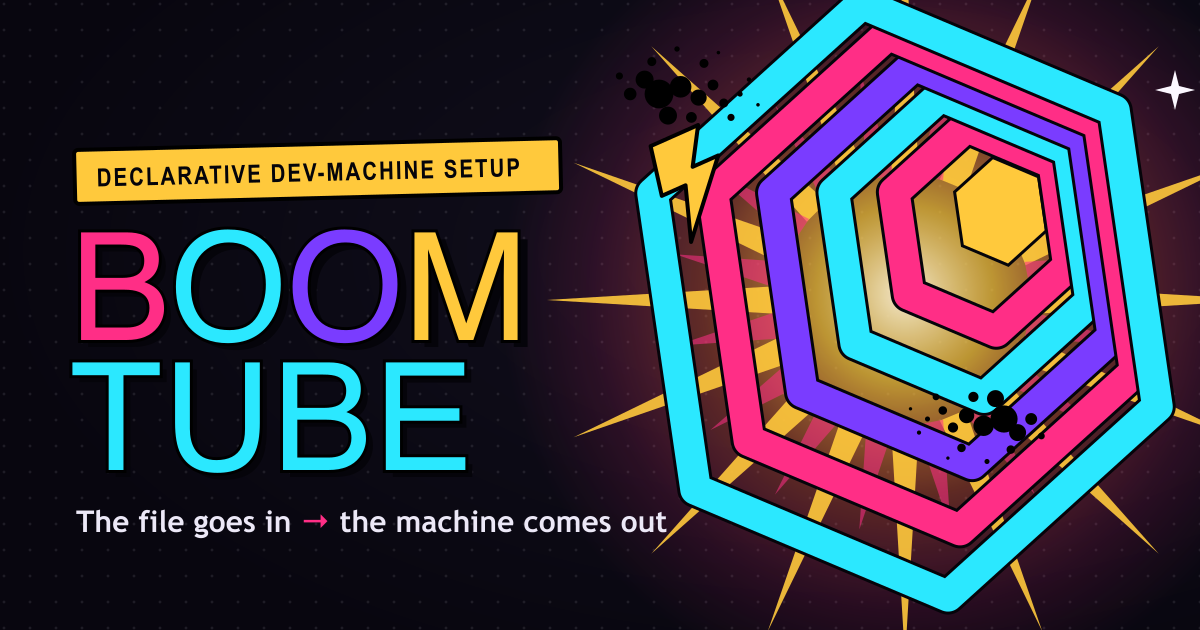
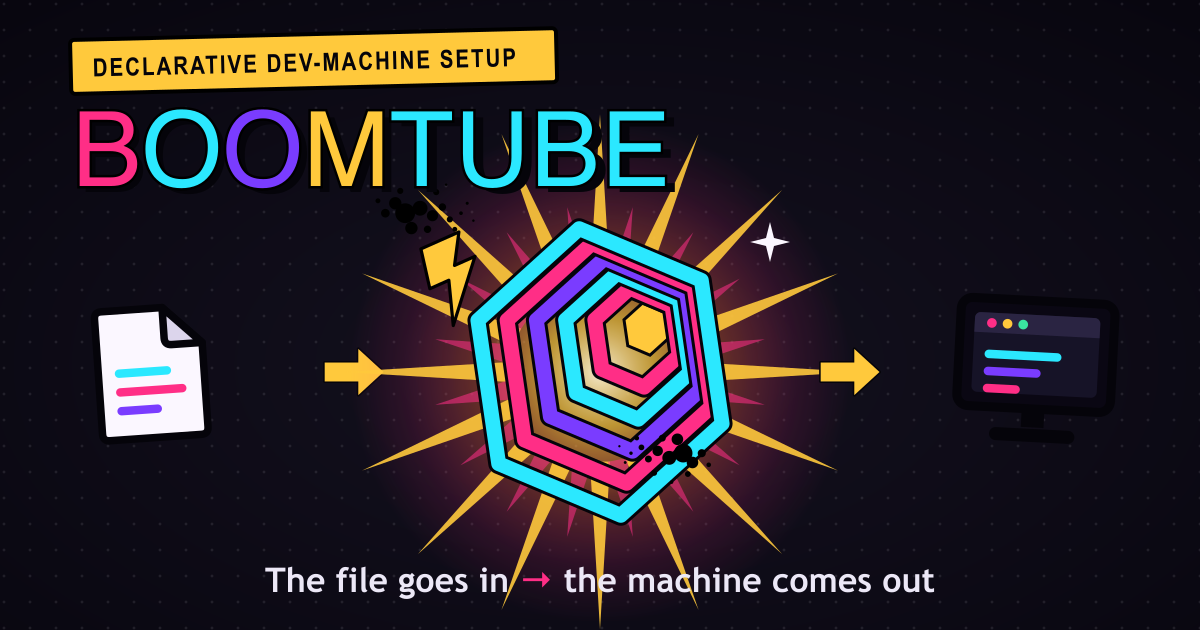
feat(site): redesign the social card as the file→portal→machine equation
The OG card was a static "wordmark beside a portal" from the 0.13 redesign;
it read as the old brand. Recompose it into the tagline drawn as a picture:
a boomfile.toml page feeds the real hex-tunnel BOOM portal (dead-center) and
the machine terminal emerges the far side — the same file→portal→machine story
the landing hero now tells, using the same glyphs so the card and site stay in
lockstep. Kicker/wordmark/tagline all carry the current "declarative dev-machine
setup" branding (the "machine reconciler" language was already retired in #67).

Update og:image:alt / twitter:image:alt to describe the new composition.

Claude-Session: https://claude.ai/code/session_01T9QBRgURziaXJq2mFFyxRk

diff --git a/site/og.build.ts b/site/og.build.ts
@@ -94,24 +94,59 @@ function burst(S: number): string {
   return tri.join("\n    ");
 }
 
+// ---- the boomfile page + the machine terminal, verbatim from index.html's
+// hero equation glyphs (the file→portal→machine story, its source of truth). A
+// 64×64 glyph, centered at (cx,cy) and scaled to `s`×, tilted by `rot`°. ----
+function fileGlyph(cx: number, cy: number, s: number, rot: number): string {
+  return `<g transform="translate(${f(cx)} ${f(cy)}) rotate(${rot}) scale(${s}) translate(-32 -32)">
+      <path d="M13 5 H39 L55 21 V57 Q55 60 52 60 H13 Q10 60 10 57 V8 Q10 5 13 5 Z" fill="${C.white}" stroke="${C.ink}" stroke-width="3.2" stroke-linejoin="round"/>
+      <path d="M39 5 V18 Q39 21 42 21 H55 Z" fill="#DCD5EC" stroke="${C.ink}" stroke-width="3.2" stroke-linejoin="round"/>
+      <rect x="17" y="30" width="24" height="3.6" rx="1.8" fill="${C.cyan}"/>
+      <rect x="17" y="38" width="30" height="3.6" rx="1.8" fill="${C.magenta}"/>
+      <rect x="17" y="46" width="19" height="3.6" rx="1.8" fill="${C.violet}"/>
+    </g>`;
+}
+function machineGlyph(cx: number, cy: number, s: number, rot: number): string {
+  return `<g transform="translate(${f(cx)} ${f(cy)}) rotate(${rot}) scale(${s}) translate(-32 -32)">
+      <rect x="5" y="7" width="54" height="38" rx="4" fill="${C.void}" stroke="${C.ink}" stroke-width="3.2"/>
+      <rect x="10" y="12" width="44" height="28" rx="2" fill="#161327"/>
+      <path d="M10 14 a2 2 0 0 1 2 -2 h40 a2 2 0 0 1 2 2 v5 h-44 z" fill="#2A2442"/>
+      <circle cx="16" cy="15.6" r="1.7" fill="${C.magenta}"/><circle cx="21.5" cy="15.6" r="1.7" fill="${C.solar}"/><circle cx="27" cy="15.6" r="1.7" fill="#3AE6A0"/>
+      <rect x="14" y="25" width="27" height="3" rx="1.5" fill="${C.cyan}"/>
+      <rect x="14" y="31" width="20" height="3" rx="1.5" fill="${C.violet}"/>
+      <rect x="14" y="37" width="13" height="3" rx="1.5" fill="${C.magenta}"/>
+      <rect x="28" y="45" width="8" height="6.5" fill="${C.ink}"/>
+      <rect x="17" y="52" width="30" height="4.6" rx="2.3" fill="${C.ink}"/>
+    </g>`;
+}
+
+// a chunky comic block-arrow (the equation's operator), centered at (cx,cy).
+function arrow(cx: number, cy: number, s: number): string {
+  return `<g transform="translate(${f(cx)} ${f(cy)}) scale(${s})" paint-order="stroke" stroke="${C.ink}" stroke-width="3" stroke-linejoin="round">
+      <path d="M-26 -9 H6 V-22 L30 0 L6 22 V9 H-26 Z" fill="${C.solar}"/>
+    </g>`;
+}
+
 const W = 1200,
   H = 630;
-const PORTAL_X = 905,
-  PORTAL_Y = 300; // portal center (right third), matching the prior card
-const MARK_S = 682; // outer ring radius ≈ P.rm * 682 ≈ 300
-const BURST_S = 780;
+// The card now tells the tagline as a picture: a boomfile page feeds the BOOM
+// portal, and the machine emerges. Portal sits dead-center as the transform.
+const PORTAL_X = 600,
+  PORTAL_Y = 372; // portal center — the middle beat of file → portal → machine
+const MARK_S = 330; // outer ring radius ≈ P.rm * 330 ≈ 145 (a beat, not the whole card)
+const BURST_S = 560;
 
 const svg = `<?xml version="1.0" encoding="UTF-8"?>
 <!-- GENERATED by site/og.build.ts — do not edit by hand; rerun the generator.
      Social-share card (1200×630). OG crawlers don't render SVG, so this is
-     rasterized to og.png at author time and committed. The portal is the real
-     brand icon: the collapsing hex tunnel (index.html's canvas \`master\` mark),
-     rendered here as static polygons from the same P params — magenta/cyan/violet
-     rings imploding to a solar throat, the four brand signals on near-black. -->
+     rasterized to og.png at author time and committed. The card is the tagline
+     drawn as an equation: a boomfile page feeds the real brand icon — the
+     collapsing hex tunnel (index.html's canvas \`master\` mark, reproduced from
+     the same P params) — and the machine comes out the far side. -->
 <svg xmlns="http://www.w3.org/2000/svg" width="${W}" height="${H}" viewBox="0 0 ${W} ${H}">
   <defs>
-    <radialGradient id="vig" cx="70%" cy="40%" r="72%">
-      <stop offset="0%" stop-color="#12101E"/>
+    <radialGradient id="vig" cx="50%" cy="58%" r="75%">
+      <stop offset="0%" stop-color="#14111F"/>
       <stop offset="100%" stop-color="#08060F"/>
     </radialGradient>
     <radialGradient id="fuzz" cx="50%" cy="50%" r="50%">
@@ -150,47 +185,51 @@ const svg = `<?xml version="1.0" encoding="UTF-8"?>
   <rect width="${W}" height="${H}" fill="url(#vig)"/>
   <rect width="${W}" height="${H}" fill="url(#dots)"/>
 
-  <!-- the boom tube: the brand hex-tunnel icon imploding to a solar core -->
+  <!-- ===== the equation: boomfile → BOOM portal → machine ===== -->
+
+  <!-- 1 · the file goes in -->
+  ${fileGlyph(150, PORTAL_Y, 2.35, -4)}
+  ${arrow(352, PORTAL_Y, 1.05)}
+
+  <!-- 2 · the BOOM portal: the brand hex-tunnel icon imploding to a solar core -->
   <g transform="translate(${PORTAL_X} ${PORTAL_Y})">
     <!-- warm implosion glow -->
-    <circle cx="0" cy="-6" r="405" fill="url(#fuzz)"/>
+    <circle cx="0" cy="0" r="250" fill="url(#fuzz)"/>
     <!-- burst rays -->
     ${burst(BURST_S)}
     <!-- hex tunnel rings (the icon) -->
     ${hexTunnel(MARK_S)}
-    <!-- krackle spilling over the rim -->
+    <!-- krackle + comic sparks spilling over the rim -->
     <g style="color:#000">
-      <use href="#krak" width="240" height="120" transform="translate(-300 -260) scale(.9)"/>
-      <use href="#krak" width="240" height="120" transform="translate(150 170) rotate(180) scale(.85)"/>
+      <use href="#krak" width="240" height="120" transform="translate(-232 -196) scale(.62)"/>
+      <use href="#krak" width="240" height="120" transform="translate(118 116) rotate(180) scale(.58)"/>
     </g>
-    <use href="#bolt" width="80" height="110" style="color:#FFC93C" transform="translate(-268 -150) rotate(-24)"/>
-    <use href="#spark" width="40" height="40" style="color:#FBF7FF" transform="translate(250 -230)"/>
+    <use href="#bolt" width="80" height="110" style="color:#FFC93C" transform="translate(-190 -120) rotate(-24) scale(.8)"/>
+    <use href="#spark" width="40" height="40" style="color:#FBF7FF" transform="translate(150 -150)"/>
   </g>
 
-  <!-- title block, left -->
-  <g transform="translate(70 0)">
-    <!-- solar kicker card: the site's category definer -->
-    <g transform="translate(4 150) rotate(-1.4)">
-      <rect x="0" y="0" width="486" height="54" fill="#FFC93C" stroke="#000" stroke-width="4" rx="4"/>
-      <text x="22" y="37" font-family="'Arial Narrow', Impact, sans-serif" font-weight="700"
-        font-size="25" letter-spacing="2" fill="#05040A">DECLARATIVE DEV-MACHINE SETUP</text>
-    </g>
-    <!-- BOOMTUBE wordmark: BOOM in the four brand signals, TUBE the calm cyan anchor -->
-    <g font-family="Impact, 'Arial Narrow Bold', sans-serif" letter-spacing="1">
-      <!-- hard comic offset shadow -->
-      <g fill="#05040A" transform="translate(7 7)">
-        <text x="0" y="340" font-size="150">BOOM</text>
-        <text x="0" y="470" font-size="150">TUBE</text>
-      </g>
-      <g paint-order="stroke" stroke="#000" stroke-width="6">
-        <text x="0" y="340" font-size="150"><tspan fill="#FF2E86">B</tspan><tspan fill="#2BE8FF">O</tspan><tspan fill="#7A3CFF">O</tspan><tspan fill="#FFC93C">M</tspan></text>
-        <text x="0" y="470" font-size="150" fill="#2BE8FF">TUBE</text>
-      </g>
-    </g>
-    <!-- tagline -->
-    <text x="6" y="532" font-family="'Trebuchet MS', Verdana, sans-serif" font-weight="700"
-      font-size="30" fill="#ECE8F7">The file goes in <tspan fill="#FF2E86">&#8594;</tspan> the machine comes out</text>
+  <!-- 3 · the machine comes out -->
+  ${arrow(848, PORTAL_Y, 1.05)}
+  ${machineGlyph(1035, PORTAL_Y, 2.85, 3)}
+
+  <!-- ===== identity block, upper-left ===== -->
+  <!-- solar kicker card: the site's category definer -->
+  <g transform="translate(70 40) rotate(-1.4)">
+    <rect x="0" y="0" width="486" height="54" fill="#FFC93C" stroke="#000" stroke-width="4" rx="4"/>
+    <text x="22" y="37" font-family="'Arial Narrow', Impact, sans-serif" font-weight="700"
+      font-size="25" letter-spacing="2" fill="#05040A">DECLARATIVE DEV-MACHINE SETUP</text>
   </g>
+  <!-- BOOMTUBE wordmark: BOOM in the four brand signals, TUBE the calm cyan anchor -->
+  <g font-family="Impact, 'Arial Narrow Bold', sans-serif" letter-spacing="1">
+    <g fill="#05040A" transform="translate(6 6)"><text x="72" y="186" font-size="104">BOOMTUBE</text></g>
+    <g paint-order="stroke" stroke="#000" stroke-width="5">
+      <text x="72" y="186" font-size="104"><tspan fill="#FF2E86">B</tspan><tspan fill="#2BE8FF">O</tspan><tspan fill="#7A3CFF">O</tspan><tspan fill="#FFC93C">M</tspan><tspan fill="#2BE8FF">TUBE</tspan></text>
+    </g>
+  </g>
+
+  <!-- ===== tagline, along the bottom ===== -->
+  <text x="600" y="592" text-anchor="middle" font-family="'Trebuchet MS', Verdana, sans-serif"
+    font-weight="700" font-size="34" fill="#ECE8F7">The file goes in <tspan fill="#FF2E86">&#8594;</tspan> the machine comes out</text>
 </svg>
 `;
 

diff --git a/site/index.html b/site/index.html
@@ -21,12 +21,12 @@
 <meta property="og:image:type" content="image/png">
 <meta property="og:image:width" content="1200">
 <meta property="og:image:height" content="630">
-<meta property="og:image:alt" content="The BOOMTUBE wordmark beside a Kirby boom-tube portal: declarative dev-machine setup — the file goes in, the machine comes out.">
+<meta property="og:image:alt" content="The BOOMTUBE card drawn as an equation: a boomfile.toml page feeds the Kirby boom-tube portal and a terminal comes out the far side — declarative dev-machine setup, the file goes in, the machine comes out.">
 <meta name="twitter:card" content="summary_large_image">
 <meta name="twitter:title" content="BoomTube — one-binary declarative dev-machine setup">
 <meta name="twitter:description" content="The file goes in — the machine comes out. Declare your machine in one boomfile.toml; reconcile, prove, and roll it back.">
 <meta name="twitter:image" content="https://alxjrvs.github.io/boom/og.png">
-<meta name="twitter:image:alt" content="The BOOMTUBE wordmark beside a Kirby boom-tube portal: declarative dev-machine setup — the file goes in, the machine comes out.">
+<meta name="twitter:image:alt" content="The BOOMTUBE card drawn as an equation: a boomfile.toml page feeds the Kirby boom-tube portal and a terminal comes out the far side — declarative dev-machine setup, the file goes in, the machine comes out.">
 <script type="application/ld+json">
 {"@context":"https://schema.org","@graph":[
 {"@type":"SoftwareApplication","name":"BoomTube","description":"Declarative dev-machine setup: one typed boomfile.toml declares your whole machine — shell, packages, macOS defaults, secrets. Reconcile, prove, and roll back any change. One self-contained binary, zero runtime dependencies.","applicationCategory":"DeveloperApplication","operatingSystem":"macOS, Linux","url":"https://alxjrvs.github.io/boom/","downloadUrl":"https://github.com/alxjrvs/boom","softwareVersion":"0.13.0","image":"https://alxjrvs.github.io/boom/og.png","sameAs":["https://github.com/alxjrvs/boom"],"author":{"@type":"Person","name":"alxjrvs"},"offers":{"@type":"Offer","price":"0","priceCurrency":"USD"}},

diff --git a/site/build.ts b/site/build.ts
@@ -135,7 +135,7 @@ const head = (o: { title: string; desc: string; slug: string; ogType?: string })
 <meta property="og:image:type" content="image/png">
 <meta property="og:image:width" content="1200">
 <meta property="og:image:height" content="630">
-<meta property="og:image:alt" content="The BOOMTUBE wordmark beside a Kirby boom-tube portal: declarative dev-machine setup — the file goes in, the machine comes out.">
+<meta property="og:image:alt" content="The BOOMTUBE card drawn as an equation: a boomfile.toml page feeds the Kirby boom-tube portal and a terminal comes out the far side — declarative dev-machine setup, the file goes in, the machine comes out.">
 <meta name="twitter:card" content="summary_large_image">
 <meta name="twitter:title" content="${t}">
 <meta name="twitter:description" content="${d}">